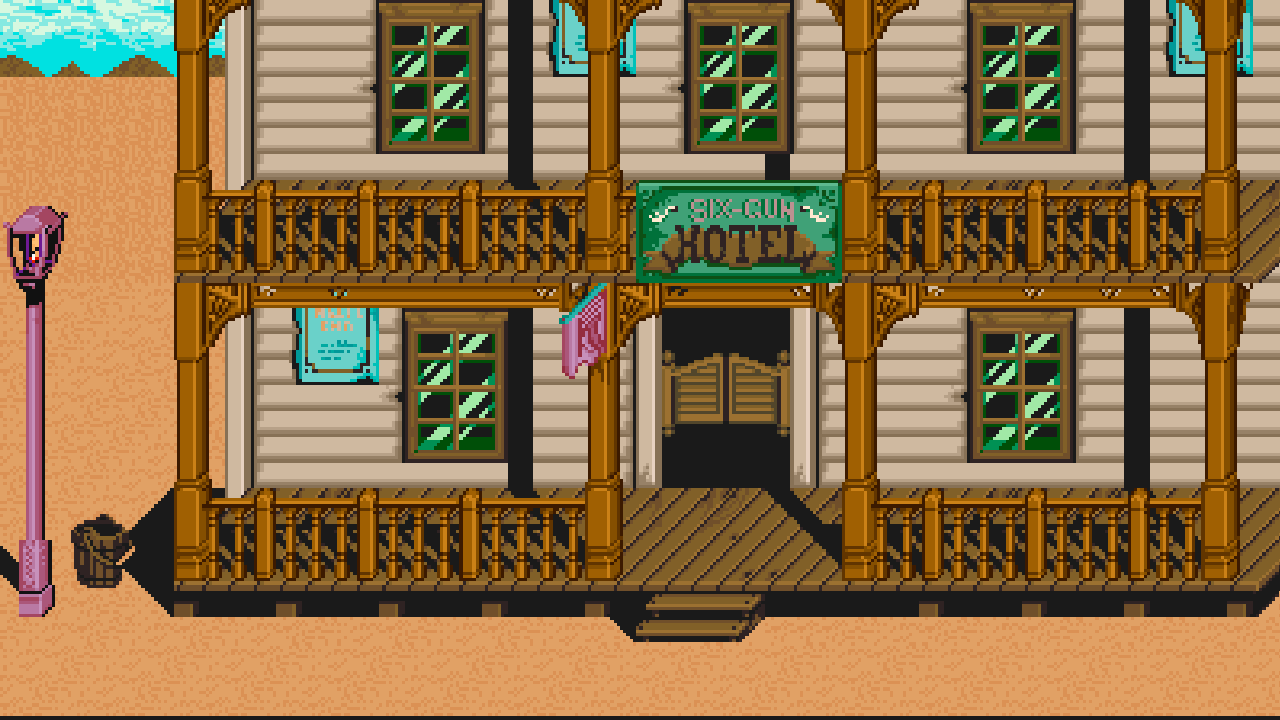
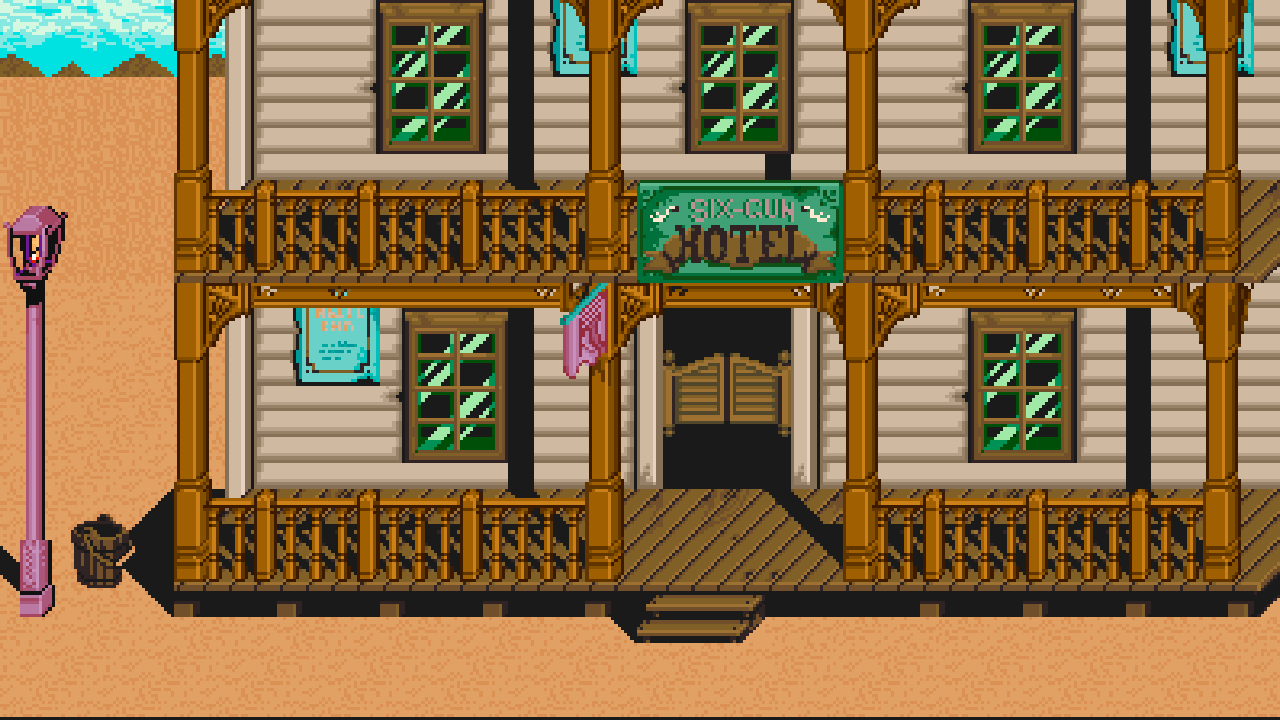
working on cowboy window manager etc

diff --git a/Multiplayer-Engine/Multiplayer Game/Behaviours.cpp b/Multiplayer-Engine/Multiplayer Game/Behaviours.cpp
@@ -3,6 +3,85 @@
 
 
 
+void CowboyWindowManager::start()
+{
+	// create necessary rects for window and different enemies/hostages
+	vec4 windowsPositions[MAX_SPAWN_WINDOWS];
+	windowsPositions[0] = { 354, 0 };
+	windowsPositions[1] = { 662, 0 };
+	windowsPositions[2] = { 946, 0 };
+	windowsPositions[3] = { 380, 308 };
+	windowsPositions[4] = { 946, 308 };
+
+	for (int i = 0; i < MAX_SPAWN_WINDOWS; ++i)
+	{
+		windows[i].window = Instantiate();
+		windows[i].window->position = { windowsPositions[i].x - 1280*0.5f, windowsPositions[i].y - 720*0.5f };
+
+		windows[i].window->sprite = App->modRender->addSprite(windows[i].window);
+		windows[i].window->sprite->texture = App->modResources->tex_cowboy_window;
+		windows[i].window->sprite->clipRect = { 358, 358, 154, 154};
+		windows[i].window->sprite->pivot = { 0,0 };
+		windows[i].window->size = { 154,154 };
+	}
+
+	CloseAllWindows();
+
+	/*OpenWindow(3);
+	OpenWindow(2);*/
+
+	// targets
+	targetsRects[0].spawnRect = { 0,0, 113, 129};
+}
+
+void CowboyWindowManager::CloseAllWindows()
+{
+	for (int i = 0; i < MAX_SPAWN_WINDOWS; ++i)
+	{
+		windows[i].state = WindowState::closed;
+		windows[i].window->sprite->color = { 1.0f, 1.0f, 1.0f, 0.0f };
+	}
+}
+
+void CowboyWindowManager::OpenWindow(uint8 n)
+{
+	windows[n].state = WindowState::open;
+	windows[n].window->sprite->color = { 1.0f, 1.0f, 1.0f, 1.0f };
+}
+
+void CowboyWindowManager::onMouse(const MouseController& mouse)
+{
+
+}
+
+void CowboyWindowManager::update()
+{
+
+
+	if (!isServer)
+		return;
+
+
+
+}
+
+void CowboyWindowManager::destroy()
+{
+
+}
+
+void CowboyWindowManager::write(OutputMemoryStream& packet)
+{
+	// WIP
+}
+
+void CowboyWindowManager::read(const InputMemoryStream& packet)
+{
+	// WIP
+}
+
+
+
 //void Laser::start()
 //{
 //	gameObject->networkInterpolationEnabled = false;

diff --git a/Multiplayer-Engine/Multiplayer Game/ModuleBehaviour.cpp b/Multiplayer-Engine/Multiplayer Game/ModuleBehaviour.cpp
@@ -15,7 +15,20 @@ bool ModuleBehaviour::start()
 	crosshairTypeRects[2].reticle_outside = { 512, 0, 256, 256 };
 	crosshairTypeRects[2].reticle_hit = { 512, 256, 256, 256 };
 
-	return true;
+	crosshairTypeRects[3].crosshairType = 3;
+	crosshairTypeRects[3].reticle_outside = { 768, 0, 256, 256 };
+	crosshairTypeRects[3].reticle_hit = { 768, 256, 256, 256 };
+
+	crosshairTypeRects[4].crosshairType = 4;
+	crosshairTypeRects[4].reticle_outside = { 256, 512, 256, 256 };
+	crosshairTypeRects[4].reticle_hit = { 512, 512, 256, 256 };
+
+	crosshairTypeRects[5].crosshairType = 5;
+	crosshairTypeRects[5].reticle_outside = { 0, 512, 256, 256 };
+	crosshairTypeRects[5].reticle_hit = { 0, 768, 256, 256 };
+
+
+ 	return true;
 }
 
 bool ModuleBehaviour::update()
@@ -35,21 +48,42 @@ bool ModuleBehaviour::update()
 		handleBehaviourLifeCycle(&behaviour);
 	}
 
+	
+	handleBehaviourLifeCycle(&winManager);
+	
+
+
 	return true;
 }
 
 Behaviour *ModuleBehaviour::addBehaviour(BehaviourType behaviourType, GameObject *parentGameObject)
 {
-	/*switch (behaviourType)
+	switch (behaviourType)
 	{
-	case BehaviourType::Spaceship:
-		return addSpaceship(parentGameObject);
-	case BehaviourType::Laser:
-		return addLaser(parentGameObject);
+	case BehaviourType::crosshair:
+		return addCrosshair(parentGameObject);
+	case BehaviourType::window_manager:
+		return addWinMan(parentGameObject);
+	/*case BehaviourType::Laser:
+		return addLaser(parentGameObject);*/
 	default:
 		return nullptr;
-	}*/
+	}
 
+	return nullptr;
+}
+
+CowboyWindowManager* ModuleBehaviour::addWinMan(GameObject* parentGo)
+{
+	if (winManager.gameObject == nullptr)
+	{
+		winManager = {};
+		winManager.gameObject = parentGo;
+		parentGo->behaviour = &winManager;
+		return &winManager;
+	}
+
+	ASSERT(false);
 	return nullptr;
 }
 

diff --git a/Multiplayer-Engine/Multiplayer Game/ScreenMainMenu.cpp b/Multiplayer-Engine/Multiplayer Game/ScreenMainMenu.cpp
@@ -48,17 +48,17 @@ void ScreenMainMenu::gui()
 	static char playerNameStr[64] = "";
 	ImGui::InputText("Player name", playerNameStr, sizeof(playerNameStr));
 
-	const char* spaceshipTypes[] = { "Type 0", "Type 1", "Type 2" };
-	static const char* spaceshipTypeStr = spaceshipTypes[0];
+	const char* crosshairTypes[] = { "Type 0", "Type 1", "Type 2", "Type 3", "Type 4", "Type 5" };
+	static const char* crosshairTypeStr = crosshairTypes[0];
 	static uint8 spaceshipType = 0;
-	if (ImGui::BeginCombo("Spaceship##combo", spaceshipTypeStr)) // The second parameter is the label previewed before opening the combo.
+	if (ImGui::BeginCombo("Crosshair##combo", crosshairTypeStr)) // The second parameter is the label previewed before opening the combo.
 	{
-		for (uint8 i = 0; i < IM_ARRAYSIZE(spaceshipTypes); i++)
+		for (uint8 i = 0; i < IM_ARRAYSIZE(crosshairTypes); i++)
 		{
-			bool is_selected = (spaceshipTypeStr == spaceshipTypes[i]); // You can store your selection however you want, outside or inside your objects
-			if (ImGui::Selectable(spaceshipTypes[i], is_selected))
+			bool is_selected = (crosshairTypeStr == crosshairTypes[i]); // You can store your selection however you want, outside or inside your objects
+			if (ImGui::Selectable(crosshairTypes[i], is_selected))
 			{
-				spaceshipTypeStr = spaceshipTypes[i];
+				crosshairTypeStr = crosshairTypes[i];
 				spaceshipType = i;
 			}
 			if (is_selected)

diff --git a/Multiplayer-Engine/Multiplayer Game/Behaviours.h b/Multiplayer-Engine/Multiplayer Game/Behaviours.h
@@ -1,5 +1,6 @@
 #pragma once
 
+#define MAX_SPAWN_WINDOWS 5
 
 enum class BehaviourType : uint8;
 
@@ -32,6 +33,8 @@ enum class BehaviourType : uint8
 {
 	None,
 	crosshair,
+	window_manager,
+	cowboy_window,
 	max
 };
 
@@ -64,6 +67,55 @@ struct PlayerCrosshair : public Behaviour
 	void write(OutputMemoryStream &packet) override;
 
 	void read(const InputMemoryStream &packet) override;
+};
+
+enum class WindowState
+{
+	none, closed, open, max
+};
+
+struct CowboyWindow
+{
+	GameObject* window = nullptr;
+	WindowState state;
+};
+
+struct Targets
+{
+	vec4 spawnRect = {};
+	vec4 deathRect = {};
+};
+
+struct CowboyWindowManager : public Behaviour // 
+{
+
+	CowboyWindow windows[MAX_SPAWN_WINDOWS]; // store windows gameobjects
+
+	Targets targetsRects[1]; // store enemie/hostage rects
+
+	BehaviourType type() const override { return BehaviourType::window_manager; }
+
+	void start() override;
+
+
+	//void onInput(const InputController& input) override;
+	void onMouse(const MouseController& mouse) override;
+
+	void update() override;
+
+	void destroy() override;
+
+	//void onCollisionTriggered(Collider& c1, Collider& c2) override;
+
+	void write(OutputMemoryStream& packet) override;
+
+	void read(const InputMemoryStream& packet) override;
+
+	// ---------------------- 
+
+	void CloseAllWindows();
+	void OpenWindow(uint8 n);
+
 };
 
 

diff --git a/Multiplayer-Engine/Multiplayer Game/ScreenGame.cpp b/Multiplayer-Engine/Multiplayer Game/ScreenGame.cpp
@@ -2,6 +2,7 @@
 #include "Networks.h"
 
 GameObject* background01 = nullptr;
+GameObject* windowManager = nullptr;
 
 void ScreenGame::enable()
 {
@@ -22,7 +23,15 @@ void ScreenGame::enable()
 	background01->sprite->texture = App->modResources->tex_sunset_background;
 	background01->sprite->order = -1;
 	//background01->sprite->clipRect = { 0,0, 256, 256 };
-	//background01->size = { 256,256 };
+	//vec2 vp = App->modRender->GetViewportSize();
+	//background01->size = { vp.x, vp.y };
+
+	windowManager = Instantiate();
+	App->modBehaviour->addBehaviour(BehaviourType::window_manager, windowManager);
+
+
+
+
 	
 	/*spaceTopRight = Instantiate();
 	spaceTopRight->sprite = App->modRender->addSprite(spaceTopRight);
@@ -65,6 +74,7 @@ void ScreenGame::gui()
 void ScreenGame::disable()
 {
 	Destroy(background01);
+	Destroy(windowManager);
 	/*Destroy(spaceTopLeft);
 	Destroy(spaceTopRight);
 	Destroy(spaceBottomLeft);

diff --git a/Multiplayer-Engine/Multiplayer Game/ModuleBehaviour.h b/Multiplayer-Engine/Multiplayer Game/ModuleBehaviour.h
@@ -2,7 +2,8 @@
 
 #include "Behaviours.h"
 
-#define MAX_CROSSHAIR_TYPES 3
+#define MAX_CROSSHAIR_TYPES 6
+
 
 class ModuleBehaviour : public Module
 {
@@ -14,6 +15,7 @@ public:
 	Behaviour * addBehaviour(BehaviourType behaviourType, GameObject *parentGameObject);
 
 	PlayerCrosshair* addCrosshair(GameObject* parentGo);
+	CowboyWindowManager* addWinMan(GameObject* parentGo);
 	/*Spaceship * addSpaceship(GameObject *parentGameObject);
 	Laser     * addLaser(GameObject *parentGameObject);*/
 
@@ -25,10 +27,13 @@ private:
 
 
 	PlayerCrosshair players_crosshairs[MAX_CLIENTS];
+	CowboyWindowManager winManager; // each client create its manager on screengame start, but only server side send orders to all clients
+	
 	/*Spaceship spaceships[MAX_CLIENTS];
 	Laser lasers[MAX_GAME_OBJECTS];*/
 
-	//
+	// store disponible cross hair type rects and type
 	CrosshairRects crosshairTypeRects[MAX_CROSSHAIR_TYPES];
+
 };
 

diff --git a/Multiplayer-Engine/Multiplayer Game/ModuleRender.cpp b/Multiplayer-Engine/Multiplayer Game/ModuleRender.cpp
@@ -273,7 +273,7 @@ bool ModuleRender::init()
 	// Create texture sampler
 	{
 		D3D11_SAMPLER_DESC desc = {};
-		desc.Filter = D3D11_FILTER_MIN_MAG_MIP_LINEAR;
+		desc.Filter = D3D11_FILTER_MIN_MAG_MIP_POINT;//D3D11_FILTER_MIN_MAG_MIP_LINEAR;
 		desc.AddressU = D3D11_TEXTURE_ADDRESS_CLAMP;
 		desc.AddressV = D3D11_TEXTURE_ADDRESS_CLAMP;
 		desc.AddressW = D3D11_TEXTURE_ADDRESS_CLAMP;

diff --git a/Multiplayer-Engine/Multiplayer Game/ModuleResources.cpp b/Multiplayer-Engine/Multiplayer Game/ModuleResources.cpp
@@ -27,6 +27,7 @@ bool ModuleResources::init()
 #else
 	loadTextureAsync("sunsetr_background2.png", &tex_sunset_background);
 	loadTextureAsync("crosshairs_v01.png", &tex_crosshairs_ss);
+	loadTextureAsync("cowboywindow2.png", &tex_cowboy_window);
 	
 	//loadTextureAsync("sunsetr_background.png", &space);
 	loadTextureAsync("asteroid1.png",        &asteroid1);

diff --git a/Multiplayer-Engine/Multiplayer Game/ModuleResources.h b/Multiplayer-Engine/Multiplayer Game/ModuleResources.h
@@ -12,6 +12,7 @@ public:
 
 	Texture *tex_sunset_background = nullptr;
 	Texture* tex_crosshairs_ss = nullptr;
+	Texture* tex_cowboy_window = nullptr;
 
 	Texture *asteroid1 = nullptr;
 	Texture *asteroid2 = nullptr;
